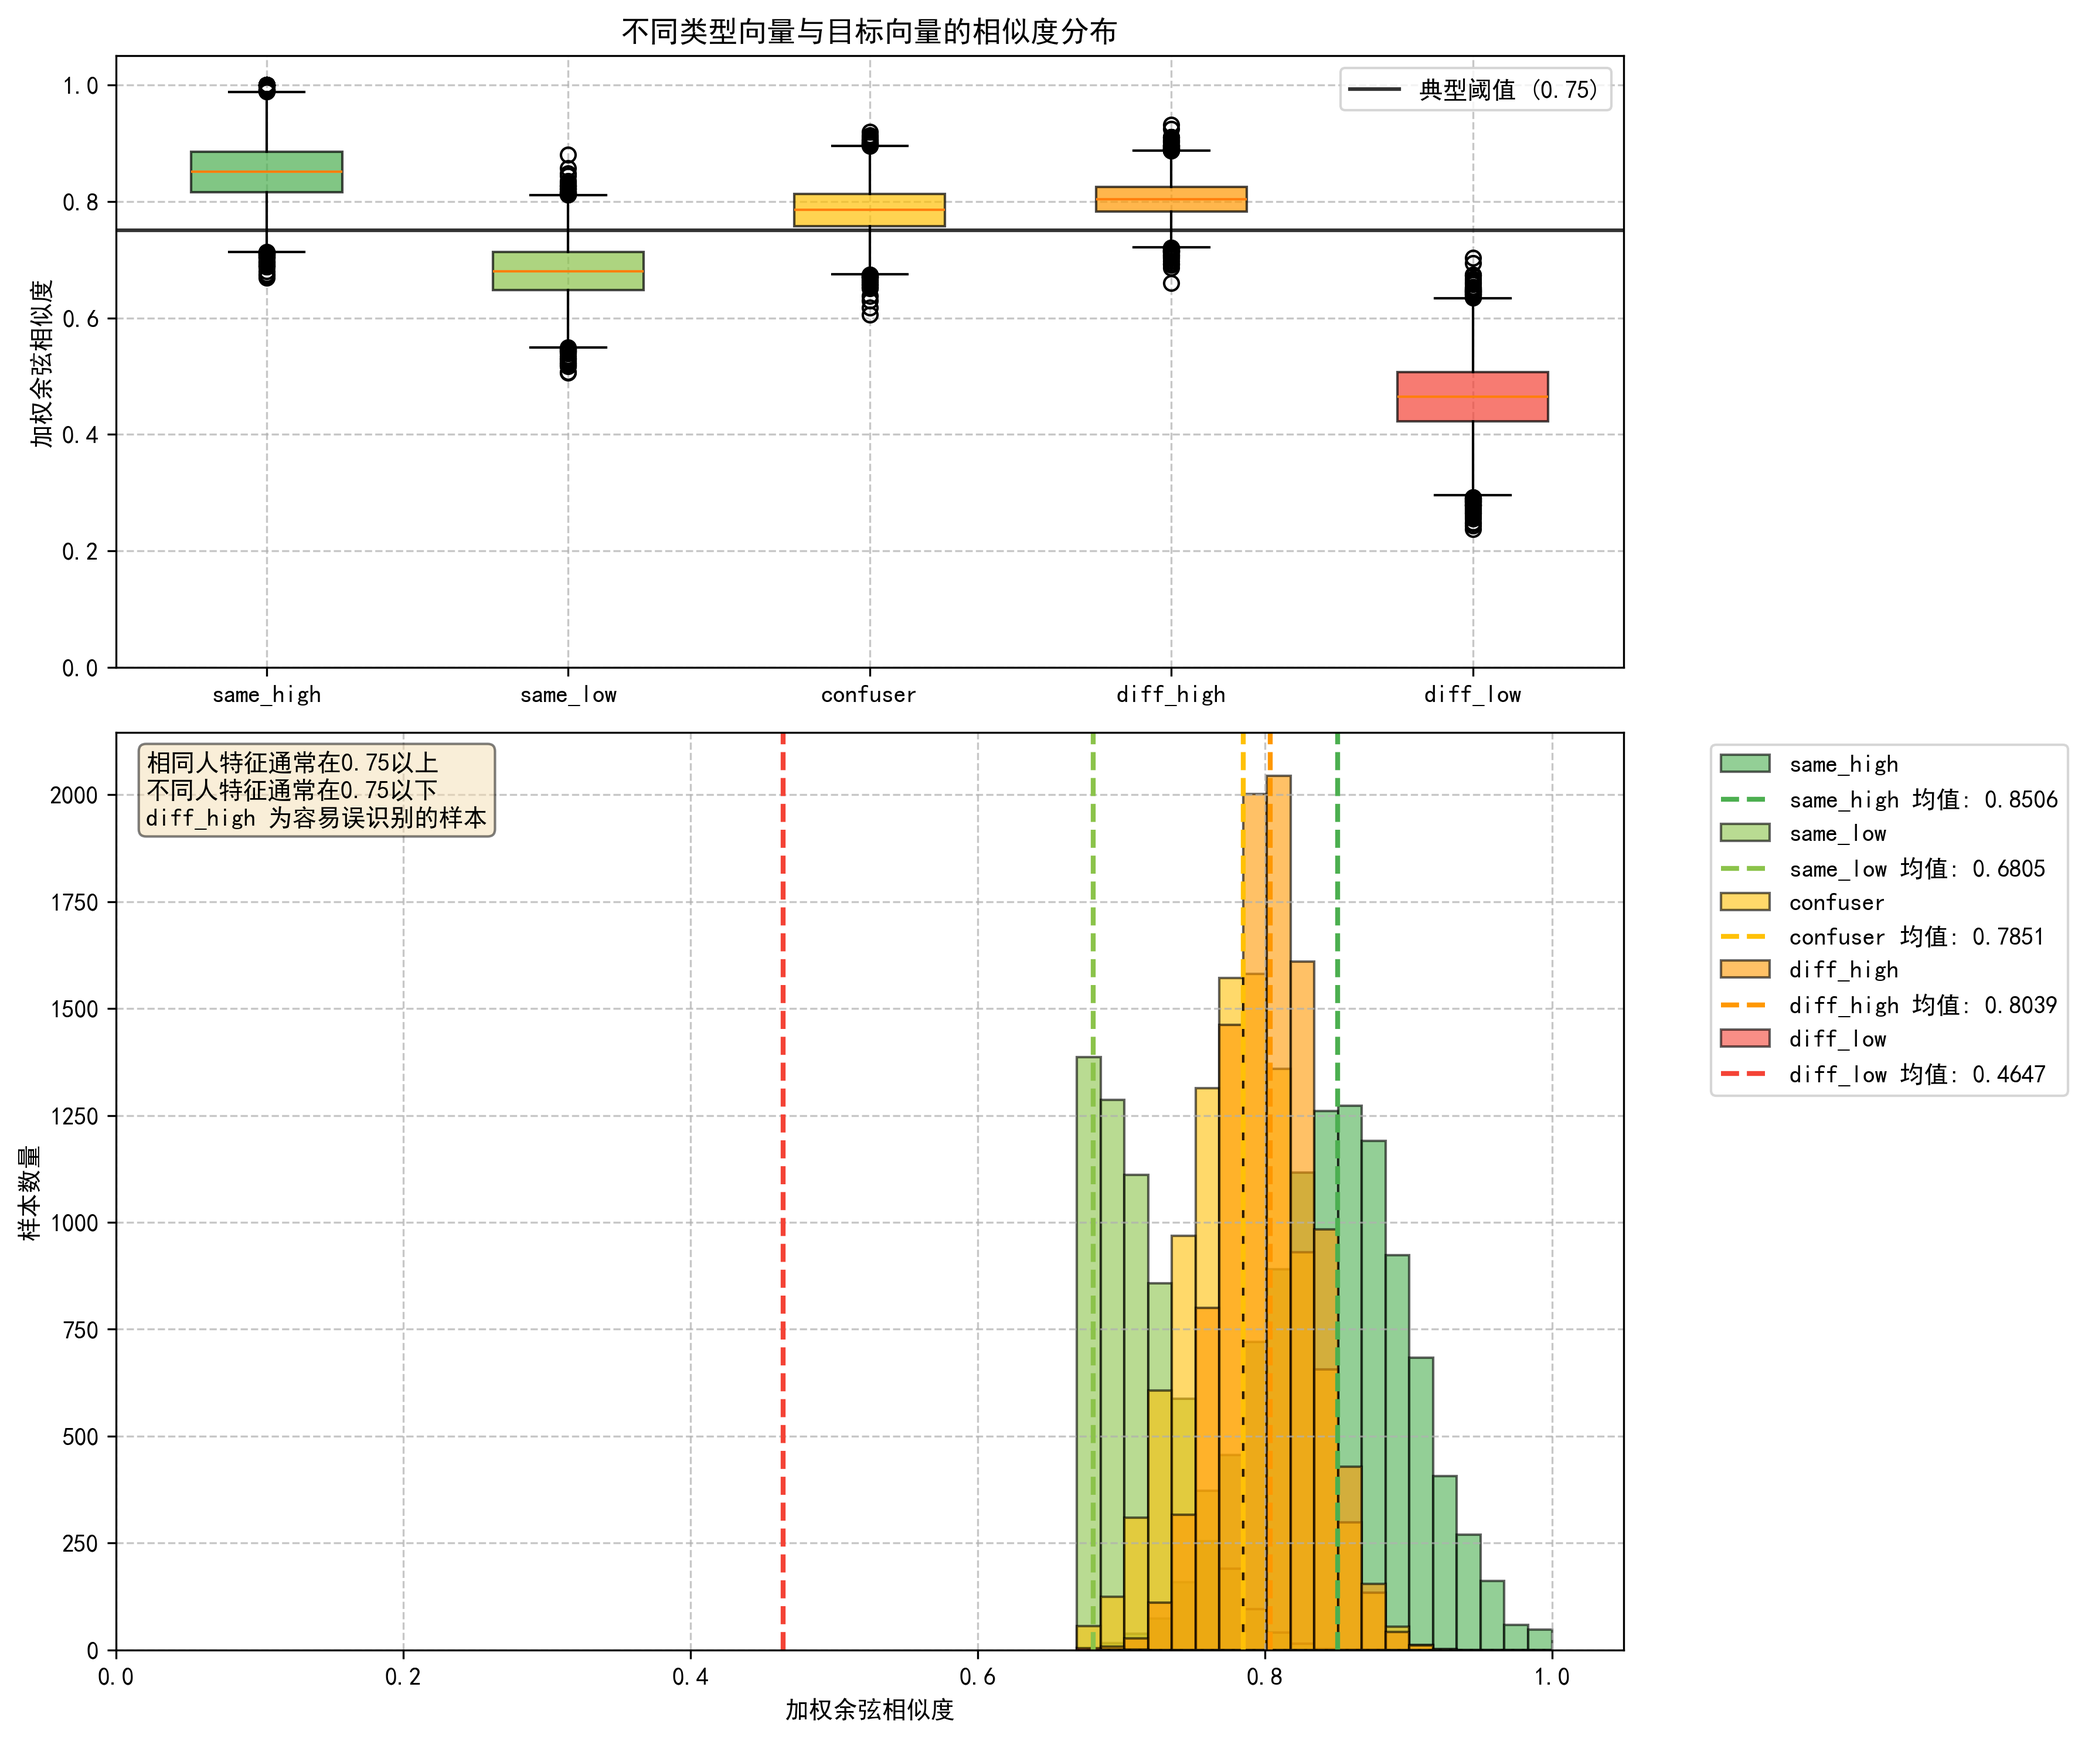
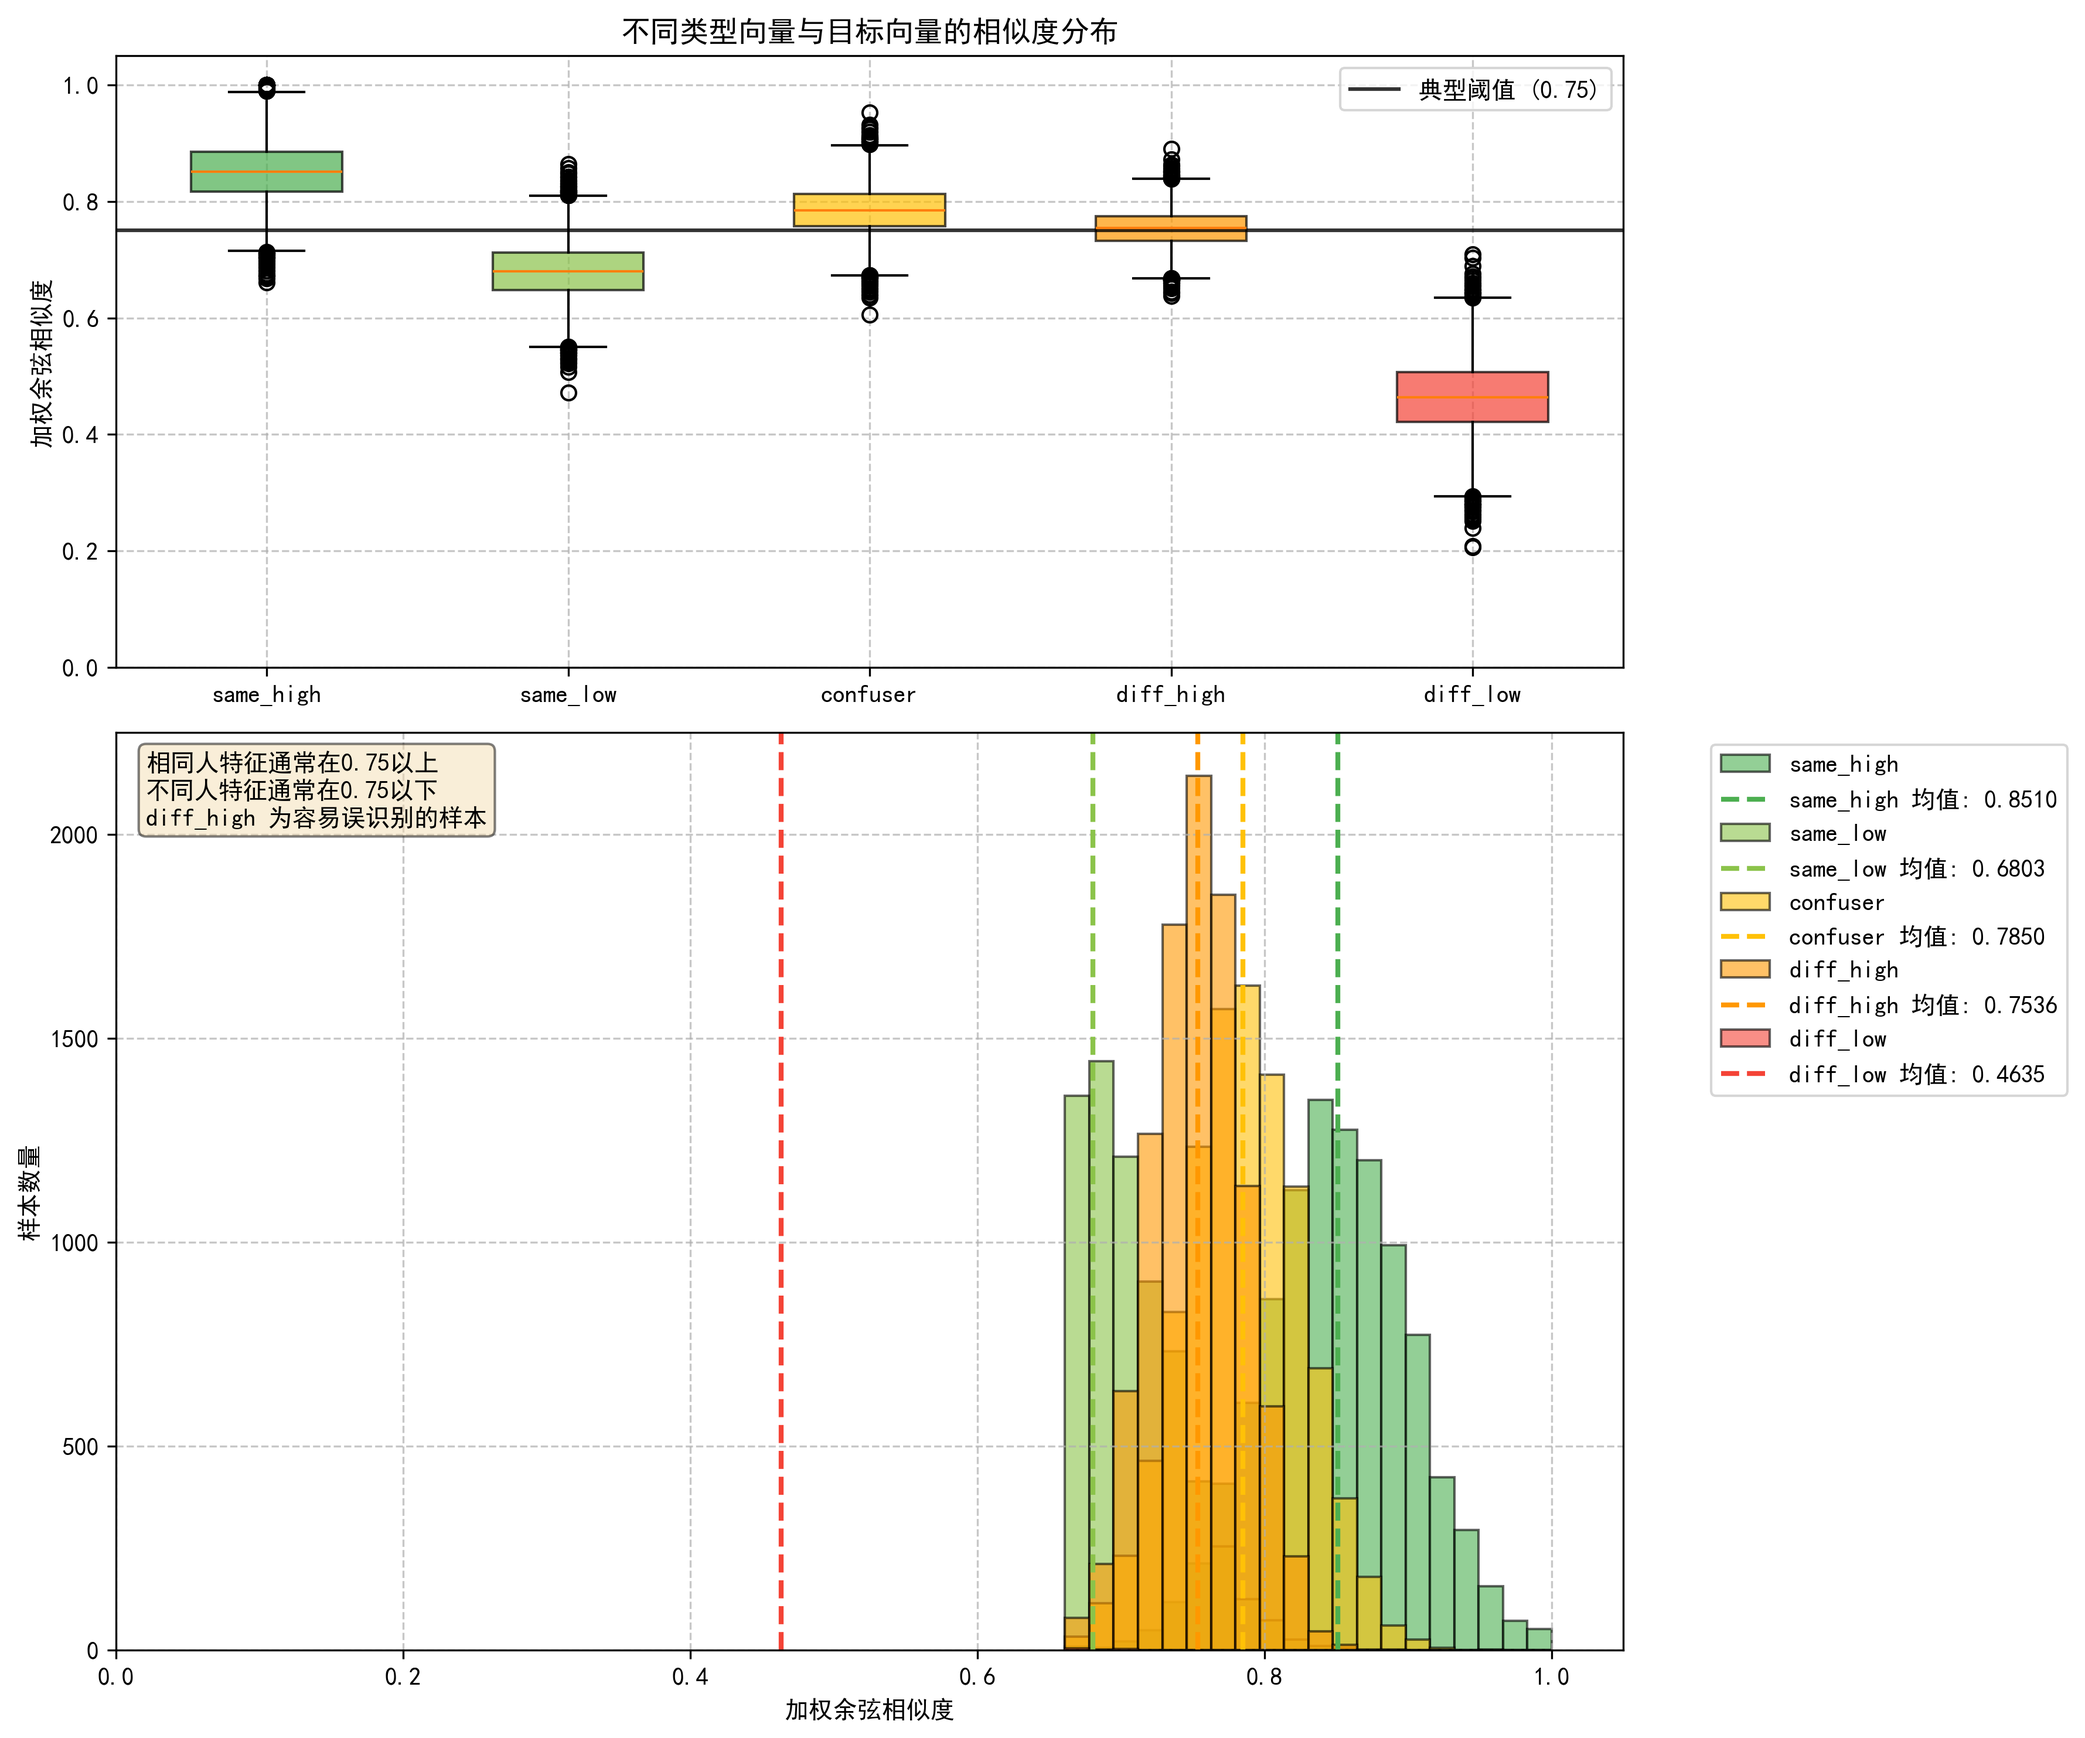
fix(similarity_comprehensive_plot): 调整不同人高相似度分布均值- 将不同人高相似度的正态分布均值从0.8036调整为0.7536- 保持标准差和其他参数不变- 更新相应的注释说明

diff --git a/src/cvds/s3_mock_image/s1_person_similarity_analysis/similarity_comprehensive_plot/similarity_comprehensive_plot.py b/src/cvds/s3_mock_image/s1_person_similarity_analysis/similarity_comprehensive_plot/similarity_comprehensive_plot.py
@@ -9,7 +9,7 @@ def generate_similarity_data():
         'same_high': np.random.normal(0.8510, 0.0510, 10000).clip(0, 1),  # 相同人高相似度
         'same_low': np.random.normal(0.6801, 0.0489, 10000).clip(0, 1),  # 相同人低相似度
 
-        'diff_high': np.random.normal(0.8036, 0.0314, 10000).clip(0, 1),  # 不同人高相似度
+        'diff_high': np.random.normal(0.7536, 0.0314, 10000).clip(0, 1),  # 不同人高相似度
         'diff_low': np.random.normal(0.4643, 0.0633, 10000).clip(0, 1),  # 不同人低相似度
 
         'confuser': np.random.normal(0.7855, 0.0409, 10000).clip(0, 1)  # 混淆样本
